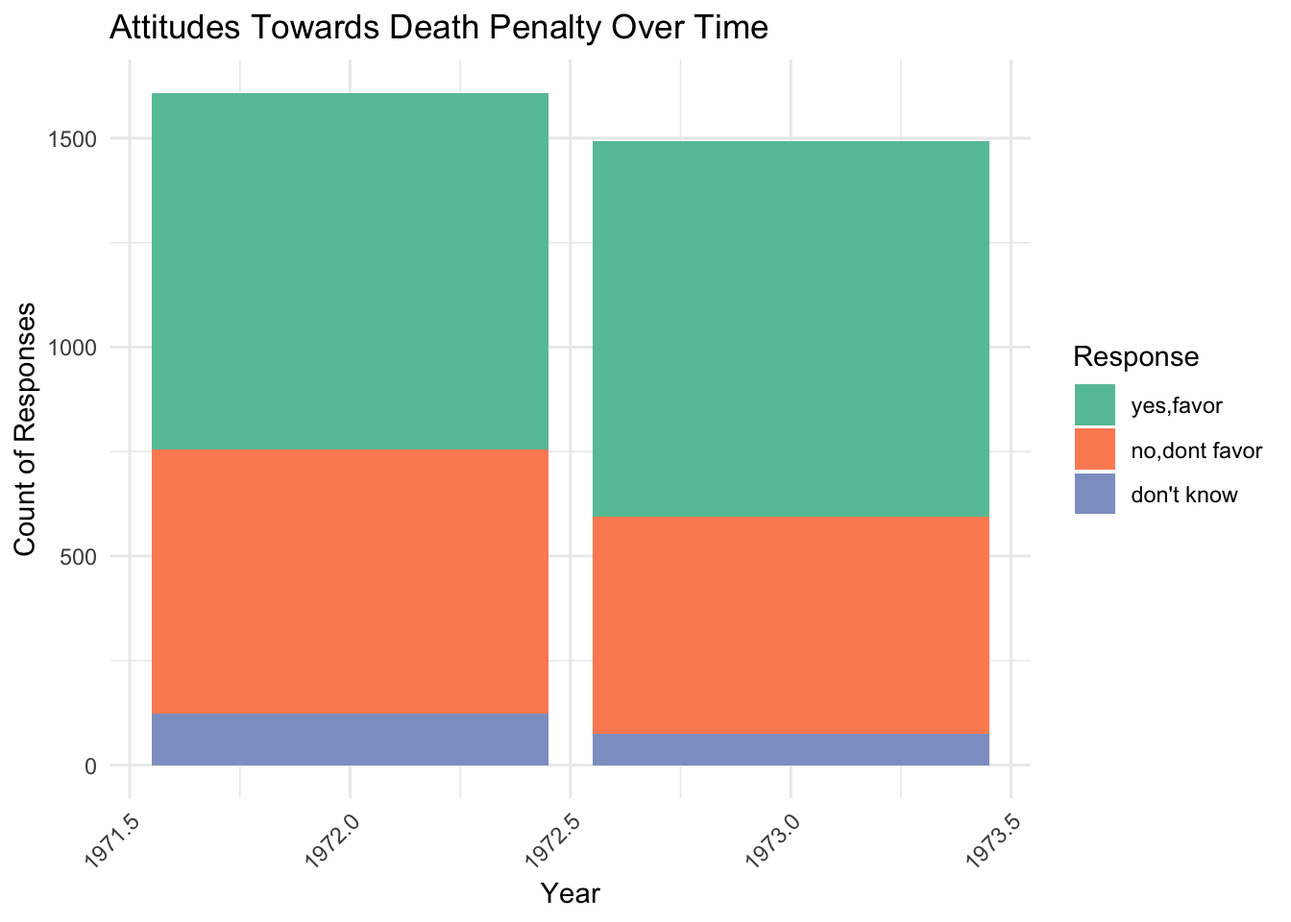
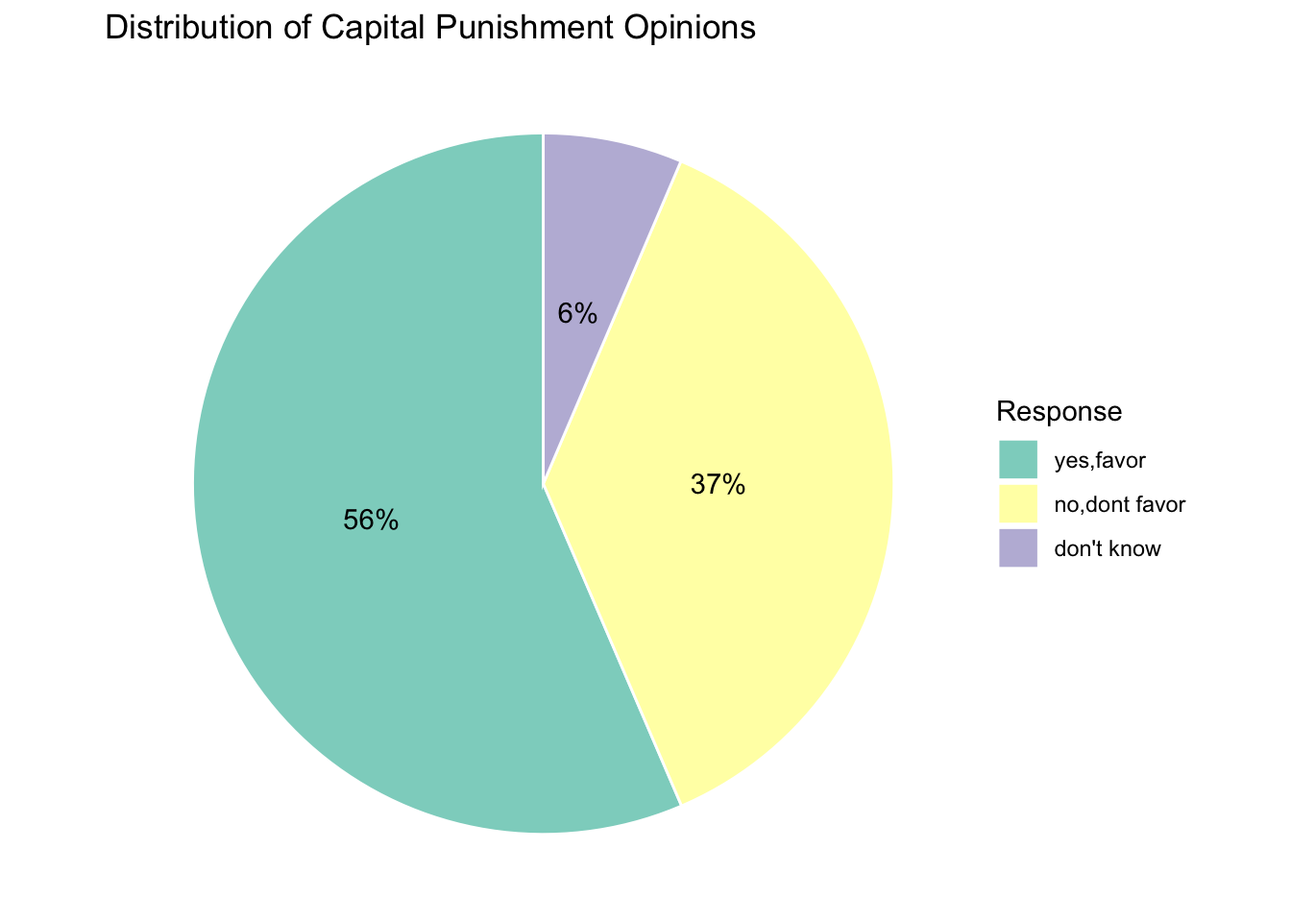
Exploratory visuals - minor improvements

diff --git a/docs/results.html b/docs/results.html
@@ -187,8 +187,9 @@ pre > code.sourceCode > span > a:first-child::before { text-decoration: underlin
   <li><a href="#affirmative-action" id="toc-affirmative-action" class="nav-link" data-scroll-target="#affirmative-action"><span class="header-section-number">3.2</span> Affirmative Action</a></li>
   <li><a href="#capital-punishment" id="toc-capital-punishment" class="nav-link" data-scroll-target="#capital-punishment"><span class="header-section-number">3.3</span> Capital Punishment</a>
   <ul class="collapse">
-  <li><a href="#which-groups-of-people-e.g.-gender-age-race-agree-the-most-on-capital-punishment-which-differ-the-most-what-are-possible-explanations-for-this" id="toc-which-groups-of-people-e.g.-gender-age-race-agree-the-most-on-capital-punishment-which-differ-the-most-what-are-possible-explanations-for-this" class="nav-link" data-scroll-target="#which-groups-of-people-e.g.-gender-age-race-agree-the-most-on-capital-punishment-which-differ-the-most-what-are-possible-explanations-for-this"><span class="header-section-number">3.3.1</span> Which groups of people (e.g.&nbsp;gender, age, race) agree the most on capital punishment? Which differ the most? What are possible explanations for this?</a></li>
-  <li><a href="#have-peoples-opinions-on-capital-punishment-changed-over-the-past-50-years-how-so" id="toc-have-peoples-opinions-on-capital-punishment-changed-over-the-past-50-years-how-so" class="nav-link" data-scroll-target="#have-peoples-opinions-on-capital-punishment-changed-over-the-past-50-years-how-so"><span class="header-section-number">3.3.2</span> Have peoples’ opinions on capital punishment changed over the past 50 years? How so?</a></li>
+  <li><a href="#exploratory" id="toc-exploratory" class="nav-link" data-scroll-target="#exploratory"><span class="header-section-number">3.3.1</span> Exploratory</a></li>
+  <li><a href="#which-groups-of-people-e.g.-gender-age-race-agree-the-most-on-capital-punishment-which-differ-the-most-what-are-possible-explanations-for-this" id="toc-which-groups-of-people-e.g.-gender-age-race-agree-the-most-on-capital-punishment-which-differ-the-most-what-are-possible-explanations-for-this" class="nav-link" data-scroll-target="#which-groups-of-people-e.g.-gender-age-race-agree-the-most-on-capital-punishment-which-differ-the-most-what-are-possible-explanations-for-this"><span class="header-section-number">3.3.2</span> Which groups of people (e.g.&nbsp;gender, age, race) agree the most on capital punishment? Which differ the most? What are possible explanations for this?</a></li>
+  <li><a href="#have-peoples-opinions-on-capital-punishment-changed-over-the-past-50-years-how-so" id="toc-have-peoples-opinions-on-capital-punishment-changed-over-the-past-50-years-how-so" class="nav-link" data-scroll-target="#have-peoples-opinions-on-capital-punishment-changed-over-the-past-50-years-how-so"><span class="header-section-number">3.3.3</span> Have peoples’ opinions on capital punishment changed over the past 50 years? How so?</a></li>
   </ul></li>
   </ul>
 <div class="toc-actions"><ul><li><a href="https://github.com/jdonohue44/GeneralSocialSurveyVisualizations/edit/main/results.qmd" class="toc-action"><i class="bi bi-github"></i>Edit this page</a></li><li><a href="https://github.com/jdonohue44/GeneralSocialSurveyVisualizations/issues/new" class="toc-action"><i class="bi empty"></i>Report an issue</a></li></ul></div></nav>
@@ -223,42 +224,38 @@ pre > code.sourceCode > span > a:first-child::before { text-decoration: underlin
 </section>
 <section id="capital-punishment" class="level2" data-number="3.3">
 <h2 data-number="3.3" class="anchored" data-anchor-id="capital-punishment"><span class="header-section-number">3.3</span> Capital Punishment</h2>
-<section id="which-groups-of-people-e.g.-gender-age-race-agree-the-most-on-capital-punishment-which-differ-the-most-what-are-possible-explanations-for-this" class="level3" data-number="3.3.1">
-<h3 data-number="3.3.1" class="anchored" data-anchor-id="which-groups-of-people-e.g.-gender-age-race-agree-the-most-on-capital-punishment-which-differ-the-most-what-are-possible-explanations-for-this"><span class="header-section-number">3.3.1</span> Which groups of people (e.g.&nbsp;gender, age, race) agree the most on capital punishment? Which differ the most? What are possible explanations for this?</h3>
+<section id="exploratory" class="level3" data-number="3.3.1">
+<h3 data-number="3.3.1" class="anchored" data-anchor-id="exploratory"><span class="header-section-number">3.3.1</span> Exploratory</h3>
 <div class="cell">
 <details class="code-fold">
 <summary>Code</summary>
 <div class="sourceCode cell-code" id="cb1"><pre class="sourceCode r code-with-copy"><code class="sourceCode r"><span id="cb1-1"><a href="#cb1-1" aria-hidden="true" tabindex="-1"></a><span class="co"># install.packages('gssr', repos = c('https://kjhealy.r-universe.dev', 'https://cloud.r-project.org'))</span></span>
 <span id="cb1-2"><a href="#cb1-2" aria-hidden="true" tabindex="-1"></a><span class="co"># install.packages('gssrdoc', repos = c('https://kjhealy.r-universe.dev', 'https://cloud.r-project.org'))</span></span>
-<span id="cb1-3"><a href="#cb1-3" aria-hidden="true" tabindex="-1"></a></span>
-<span id="cb1-4"><a href="#cb1-4" aria-hidden="true" tabindex="-1"></a><span class="fu">library</span>(gssr)</span>
-<span id="cb1-5"><a href="#cb1-5" aria-hidden="true" tabindex="-1"></a><span class="fu">library</span>(dplyr)</span>
-<span id="cb1-6"><a href="#cb1-6" aria-hidden="true" tabindex="-1"></a><span class="fu">library</span>(ggplot2)</span>
-<span id="cb1-7"><a href="#cb1-7" aria-hidden="true" tabindex="-1"></a><span class="fu">data</span>(gss_all)</span>
-<span id="cb1-8"><a href="#cb1-8" aria-hidden="true" tabindex="-1"></a></span>
-<span id="cb1-9"><a href="#cb1-9" aria-hidden="true" tabindex="-1"></a><span class="co"># Get Cappun Data</span></span>
-<span id="cb1-10"><a href="#cb1-10" aria-hidden="true" tabindex="-1"></a><span class="co"># cappun: Do you favor or oppose the death penalty for persons convicted of murder?</span></span>
-<span id="cb1-11"><a href="#cb1-11" aria-hidden="true" tabindex="-1"></a><span class="co"># 1 favor</span></span>
-<span id="cb1-12"><a href="#cb1-12" aria-hidden="true" tabindex="-1"></a><span class="co"># 2 oppose</span></span>
-<span id="cb1-13"><a href="#cb1-13" aria-hidden="true" tabindex="-1"></a><span class="co"># NA(d) i dont know</span></span>
-<span id="cb1-14"><a href="#cb1-14" aria-hidden="true" tabindex="-1"></a>cappun_data <span class="ot">&lt;-</span> gss_all <span class="sc">|&gt;</span> </span>
-<span id="cb1-15"><a href="#cb1-15" aria-hidden="true" tabindex="-1"></a>  <span class="fu">select</span>(year, cappun) <span class="sc">|&gt;</span> </span>
-<span id="cb1-16"><a href="#cb1-16" aria-hidden="true" tabindex="-1"></a>  <span class="fu">filter</span>(cappun<span class="sc">==</span><span class="dv">1</span> <span class="sc">|</span> cappun<span class="sc">==</span><span class="dv">2</span>)</span>
-<span id="cb1-17"><a href="#cb1-17" aria-hidden="true" tabindex="-1"></a></span>
-<span id="cb1-18"><a href="#cb1-18" aria-hidden="true" tabindex="-1"></a><span class="co"># Convert to factor with meaningful labels</span></span>
-<span id="cb1-19"><a href="#cb1-19" aria-hidden="true" tabindex="-1"></a>cappun_data<span class="sc">$</span>cappun <span class="ot">&lt;-</span> <span class="fu">factor</span>(cappun_data<span class="sc">$</span>cappun, </span>
-<span id="cb1-20"><a href="#cb1-20" aria-hidden="true" tabindex="-1"></a>                             <span class="at">levels =</span> <span class="fu">c</span>(<span class="st">"1"</span>, <span class="st">"2"</span>),</span>
-<span id="cb1-21"><a href="#cb1-21" aria-hidden="true" tabindex="-1"></a>                             <span class="at">labels =</span> <span class="fu">c</span>(<span class="st">"Favor"</span>, <span class="st">"Oppose"</span>))</span>
-<span id="cb1-22"><a href="#cb1-22" aria-hidden="true" tabindex="-1"></a></span>
-<span id="cb1-23"><a href="#cb1-23" aria-hidden="true" tabindex="-1"></a><span class="co"># Plot 1</span></span>
-<span id="cb1-24"><a href="#cb1-24" aria-hidden="true" tabindex="-1"></a><span class="fu">ggplot</span>(cappun_data, <span class="fu">aes</span>(<span class="at">x =</span> year, <span class="at">fill =</span> cappun)) <span class="sc">+</span></span>
-<span id="cb1-25"><a href="#cb1-25" aria-hidden="true" tabindex="-1"></a>  <span class="fu">geom_bar</span>(<span class="at">position =</span> <span class="st">"stack"</span>) <span class="sc">+</span></span>
-<span id="cb1-26"><a href="#cb1-26" aria-hidden="true" tabindex="-1"></a>  <span class="fu">labs</span>(<span class="at">title =</span> <span class="st">"Attitudes Towards Death Penalty Over Time"</span>,</span>
-<span id="cb1-27"><a href="#cb1-27" aria-hidden="true" tabindex="-1"></a>       <span class="at">x =</span> <span class="st">"Year"</span>,</span>
-<span id="cb1-28"><a href="#cb1-28" aria-hidden="true" tabindex="-1"></a>       <span class="at">y =</span> <span class="st">"Count of Responses"</span>,</span>
-<span id="cb1-29"><a href="#cb1-29" aria-hidden="true" tabindex="-1"></a>       <span class="at">fill =</span> <span class="st">"Response"</span>) <span class="sc">+</span></span>
-<span id="cb1-30"><a href="#cb1-30" aria-hidden="true" tabindex="-1"></a>  <span class="fu">theme_minimal</span>() <span class="sc">+</span></span>
-<span id="cb1-31"><a href="#cb1-31" aria-hidden="true" tabindex="-1"></a>  <span class="fu">scale_fill_brewer</span>(<span class="at">palette =</span> <span class="st">"Set2"</span>)</span></code><button title="Copy to Clipboard" class="code-copy-button"><i class="bi"></i></button></pre></div>
+<span id="cb1-3"><a href="#cb1-3" aria-hidden="true" tabindex="-1"></a><span class="fu">library</span>(gssr)</span>
+<span id="cb1-4"><a href="#cb1-4" aria-hidden="true" tabindex="-1"></a><span class="fu">library</span>(dplyr)</span>
+<span id="cb1-5"><a href="#cb1-5" aria-hidden="true" tabindex="-1"></a><span class="fu">library</span>(ggplot2)</span>
+<span id="cb1-6"><a href="#cb1-6" aria-hidden="true" tabindex="-1"></a><span class="fu">data</span>(gss_all)</span>
+<span id="cb1-7"><a href="#cb1-7" aria-hidden="true" tabindex="-1"></a></span>
+<span id="cb1-8"><a href="#cb1-8" aria-hidden="true" tabindex="-1"></a><span class="co"># Get Cappun Data</span></span>
+<span id="cb1-9"><a href="#cb1-9" aria-hidden="true" tabindex="-1"></a><span class="co"># cappun: Do you favor or oppose the death penalty for persons convicted of murder?</span></span>
+<span id="cb1-10"><a href="#cb1-10" aria-hidden="true" tabindex="-1"></a>cappun_data <span class="ot">&lt;-</span> gss_all <span class="sc">|&gt;</span> </span>
+<span id="cb1-11"><a href="#cb1-11" aria-hidden="true" tabindex="-1"></a>  <span class="fu">select</span>(year, cappun) <span class="sc">|&gt;</span> </span>
+<span id="cb1-12"><a href="#cb1-12" aria-hidden="true" tabindex="-1"></a>  <span class="fu">filter</span>(cappun<span class="sc">==</span><span class="dv">1</span> <span class="sc">|</span> cappun<span class="sc">==</span><span class="dv">2</span>)</span>
+<span id="cb1-13"><a href="#cb1-13" aria-hidden="true" tabindex="-1"></a></span>
+<span id="cb1-14"><a href="#cb1-14" aria-hidden="true" tabindex="-1"></a><span class="co"># Convert to factor with meaningful labels</span></span>
+<span id="cb1-15"><a href="#cb1-15" aria-hidden="true" tabindex="-1"></a>cappun_data<span class="sc">$</span>cappun <span class="ot">&lt;-</span> <span class="fu">factor</span>(cappun_data<span class="sc">$</span>cappun, </span>
+<span id="cb1-16"><a href="#cb1-16" aria-hidden="true" tabindex="-1"></a>                             <span class="at">levels =</span> <span class="fu">c</span>(<span class="st">"1"</span>, <span class="st">"2"</span>),</span>
+<span id="cb1-17"><a href="#cb1-17" aria-hidden="true" tabindex="-1"></a>                             <span class="at">labels =</span> <span class="fu">c</span>(<span class="st">"Favor"</span>, <span class="st">"Oppose"</span>))</span>
+<span id="cb1-18"><a href="#cb1-18" aria-hidden="true" tabindex="-1"></a></span>
+<span id="cb1-19"><a href="#cb1-19" aria-hidden="true" tabindex="-1"></a><span class="co"># Plot 1</span></span>
+<span id="cb1-20"><a href="#cb1-20" aria-hidden="true" tabindex="-1"></a><span class="fu">ggplot</span>(cappun_data, <span class="fu">aes</span>(<span class="at">x =</span> year, <span class="at">fill =</span> cappun)) <span class="sc">+</span></span>
+<span id="cb1-21"><a href="#cb1-21" aria-hidden="true" tabindex="-1"></a>  <span class="fu">geom_bar</span>(<span class="at">position =</span> <span class="st">"stack"</span>) <span class="sc">+</span></span>
+<span id="cb1-22"><a href="#cb1-22" aria-hidden="true" tabindex="-1"></a>  <span class="fu">labs</span>(<span class="at">title =</span> <span class="st">"Attitudes Towards Death Penalty Over Time"</span>,</span>
+<span id="cb1-23"><a href="#cb1-23" aria-hidden="true" tabindex="-1"></a>       <span class="at">x =</span> <span class="st">"Year"</span>,</span>
+<span id="cb1-24"><a href="#cb1-24" aria-hidden="true" tabindex="-1"></a>       <span class="at">y =</span> <span class="st">"Count of Responses"</span>,</span>
+<span id="cb1-25"><a href="#cb1-25" aria-hidden="true" tabindex="-1"></a>       <span class="at">fill =</span> <span class="st">"Response"</span>) <span class="sc">+</span></span>
+<span id="cb1-26"><a href="#cb1-26" aria-hidden="true" tabindex="-1"></a>  <span class="fu">theme_minimal</span>() <span class="sc">+</span></span>
+<span id="cb1-27"><a href="#cb1-27" aria-hidden="true" tabindex="-1"></a>  <span class="fu">scale_fill_brewer</span>(<span class="at">palette =</span> <span class="st">"Set2"</span>)</span></code><button title="Copy to Clipboard" class="code-copy-button"><i class="bi"></i></button></pre></div>
 </details>
 <div class="cell-output-display">
 <div>
@@ -299,33 +296,36 @@ pre > code.sourceCode > span > a:first-child::before { text-decoration: underlin
 <details class="code-fold">
 <summary>Code</summary>
 <div class="sourceCode cell-code" id="cb3"><pre class="sourceCode r code-with-copy"><code class="sourceCode r"><span id="cb3-1"><a href="#cb3-1" aria-hidden="true" tabindex="-1"></a><span class="fu">library</span>(forcats)</span>
-<span id="cb3-2"><a href="#cb3-2" aria-hidden="true" tabindex="-1"></a><span class="co"># Get Cappun2 Data</span></span>
-<span id="cb3-3"><a href="#cb3-3" aria-hidden="true" tabindex="-1"></a><span class="co"># cappun2: Are you in favor of the death penalty for persons convicted of murder?</span></span>
-<span id="cb3-4"><a href="#cb3-4" aria-hidden="true" tabindex="-1"></a><span class="co"># 1 yes,favor</span></span>
-<span id="cb3-5"><a href="#cb3-5" aria-hidden="true" tabindex="-1"></a><span class="co"># 2 no,dont favor</span></span>
-<span id="cb3-6"><a href="#cb3-6" aria-hidden="true" tabindex="-1"></a><span class="co"># NA(d) don't know</span></span>
+<span id="cb3-2"><a href="#cb3-2" aria-hidden="true" tabindex="-1"></a><span class="fu">library</span>(ggplot2)</span>
+<span id="cb3-3"><a href="#cb3-3" aria-hidden="true" tabindex="-1"></a><span class="fu">library</span>(dplyr)</span>
+<span id="cb3-4"><a href="#cb3-4" aria-hidden="true" tabindex="-1"></a></span>
+<span id="cb3-5"><a href="#cb3-5" aria-hidden="true" tabindex="-1"></a><span class="co"># Get Cappun2 Data</span></span>
+<span id="cb3-6"><a href="#cb3-6" aria-hidden="true" tabindex="-1"></a><span class="co"># cappun2: Are you in favor of the death penalty for persons convicted of murder?</span></span>
 <span id="cb3-7"><a href="#cb3-7" aria-hidden="true" tabindex="-1"></a></span>
-<span id="cb3-8"><a href="#cb3-8" aria-hidden="true" tabindex="-1"></a><span class="co"># gss_all |&gt; select(year, cappun2) |&gt; group_by(year, cappun2) |&gt; summarize(n())</span></span>
-<span id="cb3-9"><a href="#cb3-9" aria-hidden="true" tabindex="-1"></a></span>
-<span id="cb3-10"><a href="#cb3-10" aria-hidden="true" tabindex="-1"></a><span class="co"># Select the relevant data</span></span>
-<span id="cb3-11"><a href="#cb3-11" aria-hidden="true" tabindex="-1"></a>cappun2_data <span class="ot">&lt;-</span> gss_all <span class="sc">|&gt;</span> </span>
-<span id="cb3-12"><a href="#cb3-12" aria-hidden="true" tabindex="-1"></a>  <span class="fu">select</span>(year, cappun2)</span>
-<span id="cb3-13"><a href="#cb3-13" aria-hidden="true" tabindex="-1"></a></span>
-<span id="cb3-14"><a href="#cb3-14" aria-hidden="true" tabindex="-1"></a><span class="co"># Convert cappun2 to a factor, which will preserve all categories including "don't know"</span></span>
-<span id="cb3-15"><a href="#cb3-15" aria-hidden="true" tabindex="-1"></a>cappun2_data <span class="ot">&lt;-</span> cappun2_data <span class="sc">|&gt;</span></span>
-<span id="cb3-16"><a href="#cb3-16" aria-hidden="true" tabindex="-1"></a>  <span class="fu">mutate</span>(<span class="at">cappun2_factor =</span> <span class="fu">as_factor</span>(cappun2)) <span class="sc">|&gt;</span></span>
-<span id="cb3-17"><a href="#cb3-17" aria-hidden="true" tabindex="-1"></a>  <span class="fu">filter</span>(cappun2_factor <span class="sc">!=</span> <span class="st">"iap"</span> <span class="sc">&amp;</span> cappun2_factor <span class="sc">!=</span> <span class="st">"no answer"</span>)</span>
-<span id="cb3-18"><a href="#cb3-18" aria-hidden="true" tabindex="-1"></a></span>
-<span id="cb3-19"><a href="#cb3-19" aria-hidden="true" tabindex="-1"></a><span class="co"># Create a simple bar chart</span></span>
-<span id="cb3-20"><a href="#cb3-20" aria-hidden="true" tabindex="-1"></a><span class="fu">ggplot</span>(cappun2_data, <span class="fu">aes</span>(<span class="at">x =</span> year, <span class="at">fill =</span> cappun2_factor)) <span class="sc">+</span></span>
-<span id="cb3-21"><a href="#cb3-21" aria-hidden="true" tabindex="-1"></a>  <span class="fu">geom_bar</span>(<span class="at">position =</span> <span class="st">"stack"</span>) <span class="sc">+</span></span>
-<span id="cb3-22"><a href="#cb3-22" aria-hidden="true" tabindex="-1"></a>  <span class="fu">labs</span>(<span class="at">title =</span> <span class="st">"Attitudes Towards Death Penalty Over Time"</span>,</span>
-<span id="cb3-23"><a href="#cb3-23" aria-hidden="true" tabindex="-1"></a>       <span class="at">x =</span> <span class="st">"Year"</span>,</span>
-<span id="cb3-24"><a href="#cb3-24" aria-hidden="true" tabindex="-1"></a>       <span class="at">y =</span> <span class="st">"Count of Responses"</span>,</span>
-<span id="cb3-25"><a href="#cb3-25" aria-hidden="true" tabindex="-1"></a>       <span class="at">fill =</span> <span class="st">"Response"</span>) <span class="sc">+</span></span>
-<span id="cb3-26"><a href="#cb3-26" aria-hidden="true" tabindex="-1"></a>  <span class="fu">theme_minimal</span>() <span class="sc">+</span></span>
-<span id="cb3-27"><a href="#cb3-27" aria-hidden="true" tabindex="-1"></a>  <span class="fu">scale_fill_brewer</span>(<span class="at">palette =</span> <span class="st">"Set2"</span>) <span class="sc">+</span></span>
-<span id="cb3-28"><a href="#cb3-28" aria-hidden="true" tabindex="-1"></a>  <span class="fu">theme</span>(<span class="at">axis.text.x =</span> <span class="fu">element_text</span>(<span class="at">angle =</span> <span class="dv">45</span>, <span class="at">hjust =</span> <span class="dv">1</span>))  <span class="co"># Rotate x-axis labels for better readability</span></span></code><button title="Copy to Clipboard" class="code-copy-button"><i class="bi"></i></button></pre></div>
+<span id="cb3-8"><a href="#cb3-8" aria-hidden="true" tabindex="-1"></a><span class="co"># Select the relevant data</span></span>
+<span id="cb3-9"><a href="#cb3-9" aria-hidden="true" tabindex="-1"></a>cappun2_data <span class="ot">&lt;-</span> gss_all <span class="sc">|&gt;</span> </span>
+<span id="cb3-10"><a href="#cb3-10" aria-hidden="true" tabindex="-1"></a>  <span class="fu">select</span>(year, cappun2)</span>
+<span id="cb3-11"><a href="#cb3-11" aria-hidden="true" tabindex="-1"></a></span>
+<span id="cb3-12"><a href="#cb3-12" aria-hidden="true" tabindex="-1"></a><span class="co"># Convert cappun2 to a factor, which will preserve all categories including "don't know"</span></span>
+<span id="cb3-13"><a href="#cb3-13" aria-hidden="true" tabindex="-1"></a>cappun2_data <span class="ot">&lt;-</span> cappun2_data <span class="sc">|&gt;</span></span>
+<span id="cb3-14"><a href="#cb3-14" aria-hidden="true" tabindex="-1"></a>  <span class="fu">mutate</span>(<span class="at">cappun2_factor =</span> <span class="fu">as_factor</span>(cappun2)) <span class="sc">|&gt;</span></span>
+<span id="cb3-15"><a href="#cb3-15" aria-hidden="true" tabindex="-1"></a>  <span class="fu">filter</span>(cappun2_factor <span class="sc">!=</span> <span class="st">"iap"</span> <span class="sc">&amp;</span> cappun2_factor <span class="sc">!=</span> <span class="st">"no answer"</span>)</span>
+<span id="cb3-16"><a href="#cb3-16" aria-hidden="true" tabindex="-1"></a></span>
+<span id="cb3-17"><a href="#cb3-17" aria-hidden="true" tabindex="-1"></a><span class="co"># Pie Chart to show "i don't know" responses (1972-1973)</span></span>
+<span id="cb3-18"><a href="#cb3-18" aria-hidden="true" tabindex="-1"></a><span class="fu">ggplot</span>(cappun2_data, <span class="fu">aes</span>(<span class="at">x =</span> <span class="st">""</span>, <span class="at">fill =</span> cappun2_factor)) <span class="sc">+</span></span>
+<span id="cb3-19"><a href="#cb3-19" aria-hidden="true" tabindex="-1"></a>  <span class="fu">geom_bar</span>(<span class="at">width =</span> <span class="dv">1</span>, <span class="at">color =</span> <span class="st">"white"</span>) <span class="sc">+</span></span>
+<span id="cb3-20"><a href="#cb3-20" aria-hidden="true" tabindex="-1"></a>  <span class="fu">coord_polar</span>(<span class="st">"y"</span>, <span class="at">start =</span> <span class="dv">0</span>) <span class="sc">+</span></span>
+<span id="cb3-21"><a href="#cb3-21" aria-hidden="true" tabindex="-1"></a>  <span class="fu">theme_void</span>() <span class="sc">+</span></span>
+<span id="cb3-22"><a href="#cb3-22" aria-hidden="true" tabindex="-1"></a>  <span class="fu">labs</span>(</span>
+<span id="cb3-23"><a href="#cb3-23" aria-hidden="true" tabindex="-1"></a>    <span class="at">title =</span> <span class="st">"Distribution of Capital Punishment Opinions"</span>,</span>
+<span id="cb3-24"><a href="#cb3-24" aria-hidden="true" tabindex="-1"></a>    <span class="at">fill =</span> <span class="st">"Response"</span></span>
+<span id="cb3-25"><a href="#cb3-25" aria-hidden="true" tabindex="-1"></a>  ) <span class="sc">+</span></span>
+<span id="cb3-26"><a href="#cb3-26" aria-hidden="true" tabindex="-1"></a>  <span class="fu">geom_text</span>(</span>
+<span id="cb3-27"><a href="#cb3-27" aria-hidden="true" tabindex="-1"></a>    <span class="at">stat =</span> <span class="st">"count"</span>, </span>
+<span id="cb3-28"><a href="#cb3-28" aria-hidden="true" tabindex="-1"></a>    <span class="fu">aes</span>(<span class="at">label =</span> scales<span class="sc">::</span><span class="fu">percent</span>(..count..<span class="sc">/</span><span class="fu">sum</span>(..count..))), </span>
+<span id="cb3-29"><a href="#cb3-29" aria-hidden="true" tabindex="-1"></a>    <span class="at">position =</span> <span class="fu">position_stack</span>(<span class="at">vjust =</span> <span class="fl">0.5</span>)</span>
+<span id="cb3-30"><a href="#cb3-30" aria-hidden="true" tabindex="-1"></a>  ) <span class="sc">+</span></span>
+<span id="cb3-31"><a href="#cb3-31" aria-hidden="true" tabindex="-1"></a>  <span class="fu">scale_fill_brewer</span>(<span class="at">palette =</span> <span class="st">"Set3"</span>)</span></code><button title="Copy to Clipboard" class="code-copy-button"><i class="bi"></i></button></pre></div>
 </details>
 <div class="cell-output-display">
 <div>
@@ -336,8 +336,139 @@ pre > code.sourceCode > span > a:first-child::before { text-decoration: underlin
 </div>
 </div>
 </section>
-<section id="have-peoples-opinions-on-capital-punishment-changed-over-the-past-50-years-how-so" class="level3" data-number="3.3.2">
-<h3 data-number="3.3.2" class="anchored" data-anchor-id="have-peoples-opinions-on-capital-punishment-changed-over-the-past-50-years-how-so"><span class="header-section-number">3.3.2</span> Have peoples’ opinions on capital punishment changed over the past 50 years? How so?</h3>
+<section id="which-groups-of-people-e.g.-gender-age-race-agree-the-most-on-capital-punishment-which-differ-the-most-what-are-possible-explanations-for-this" class="level3" data-number="3.3.2">
+<h3 data-number="3.3.2" class="anchored" data-anchor-id="which-groups-of-people-e.g.-gender-age-race-agree-the-most-on-capital-punishment-which-differ-the-most-what-are-possible-explanations-for-this"><span class="header-section-number">3.3.2</span> Which groups of people (e.g.&nbsp;gender, age, race) agree the most on capital punishment? Which differ the most? What are possible explanations for this?</h3>
+<div class="cell">
+<details class="code-fold">
+<summary>Code</summary>
+<div class="sourceCode cell-code" id="cb4"><pre class="sourceCode r code-with-copy"><code class="sourceCode r"><span id="cb4-1"><a href="#cb4-1" aria-hidden="true" tabindex="-1"></a><span class="fu">library</span>(dplyr)</span>
+<span id="cb4-2"><a href="#cb4-2" aria-hidden="true" tabindex="-1"></a><span class="co"># Select the relevant data</span></span>
+<span id="cb4-3"><a href="#cb4-3" aria-hidden="true" tabindex="-1"></a>cappun_data <span class="ot">&lt;-</span> gss_all <span class="sc">|&gt;</span> </span>
+<span id="cb4-4"><a href="#cb4-4" aria-hidden="true" tabindex="-1"></a>  <span class="fu">select</span>(year, race, cappun) <span class="sc">|&gt;</span></span>
+<span id="cb4-5"><a href="#cb4-5" aria-hidden="true" tabindex="-1"></a>  <span class="fu">filter</span>(cappun<span class="sc">==</span><span class="dv">1</span> <span class="sc">|</span> cappun<span class="sc">==</span><span class="dv">2</span>)</span>
+<span id="cb4-6"><a href="#cb4-6" aria-hidden="true" tabindex="-1"></a></span>
+<span id="cb4-7"><a href="#cb4-7" aria-hidden="true" tabindex="-1"></a><span class="co"># Convert to factor with meaningful labels</span></span>
+<span id="cb4-8"><a href="#cb4-8" aria-hidden="true" tabindex="-1"></a>cappun_data<span class="sc">$</span>cappun <span class="ot">&lt;-</span> <span class="fu">factor</span>(cappun_data<span class="sc">$</span>cappun, </span>
+<span id="cb4-9"><a href="#cb4-9" aria-hidden="true" tabindex="-1"></a>                             <span class="at">levels =</span> <span class="fu">c</span>(<span class="st">"1"</span>, <span class="st">"2"</span>),</span>
+<span id="cb4-10"><a href="#cb4-10" aria-hidden="true" tabindex="-1"></a>                             <span class="at">labels =</span> <span class="fu">c</span>(<span class="st">"Favor"</span>, <span class="st">"Oppose"</span>))</span>
+<span id="cb4-11"><a href="#cb4-11" aria-hidden="true" tabindex="-1"></a></span>
+<span id="cb4-12"><a href="#cb4-12" aria-hidden="true" tabindex="-1"></a><span class="fu">ggplot</span>(cappun_data, <span class="fu">aes</span>(<span class="at">x =</span> <span class="fu">as.factor</span>(year), <span class="at">fill =</span> cappun)) <span class="sc">+</span></span>
+<span id="cb4-13"><a href="#cb4-13" aria-hidden="true" tabindex="-1"></a>  <span class="fu">geom_bar</span>(<span class="at">position =</span> <span class="st">"fill"</span>) <span class="sc">+</span></span>
+<span id="cb4-14"><a href="#cb4-14" aria-hidden="true" tabindex="-1"></a>  <span class="fu">facet_wrap</span>(<span class="sc">~</span> race, <span class="at">scales =</span> <span class="st">"free_x"</span>, </span>
+<span id="cb4-15"><a href="#cb4-15" aria-hidden="true" tabindex="-1"></a>             <span class="at">labeller =</span> <span class="fu">labeller</span>(<span class="at">race =</span> <span class="fu">c</span>(<span class="st">"1"</span> <span class="ot">=</span> <span class="st">"White"</span>, <span class="st">"2"</span> <span class="ot">=</span> <span class="st">"Black"</span>, <span class="st">"3"</span> <span class="ot">=</span> <span class="st">"Other"</span>))) <span class="sc">+</span></span>
+<span id="cb4-16"><a href="#cb4-16" aria-hidden="true" tabindex="-1"></a>  <span class="fu">labs</span>(</span>
+<span id="cb4-17"><a href="#cb4-17" aria-hidden="true" tabindex="-1"></a>    <span class="at">title =</span> <span class="st">"Capital Punishment Opinions by Year and Race"</span>,</span>
+<span id="cb4-18"><a href="#cb4-18" aria-hidden="true" tabindex="-1"></a>    <span class="at">x =</span> <span class="st">"Year"</span>,</span>
+<span id="cb4-19"><a href="#cb4-19" aria-hidden="true" tabindex="-1"></a>    <span class="at">y =</span> <span class="st">"Proportion"</span>,</span>
+<span id="cb4-20"><a href="#cb4-20" aria-hidden="true" tabindex="-1"></a>    <span class="at">fill =</span> <span class="st">"Opinion"</span></span>
+<span id="cb4-21"><a href="#cb4-21" aria-hidden="true" tabindex="-1"></a>  ) <span class="sc">+</span></span>
+<span id="cb4-22"><a href="#cb4-22" aria-hidden="true" tabindex="-1"></a>  <span class="fu">theme_minimal</span>() <span class="sc">+</span></span>
+<span id="cb4-23"><a href="#cb4-23" aria-hidden="true" tabindex="-1"></a>  <span class="fu">theme</span>(</span>
+<span id="cb4-24"><a href="#cb4-24" aria-hidden="true" tabindex="-1"></a>    <span class="at">axis.text.x =</span> <span class="fu">element_text</span>(<span class="at">angle =</span> <span class="dv">45</span>, <span class="at">hjust =</span> <span class="dv">1</span>),</span>
+<span id="cb4-25"><a href="#cb4-25" aria-hidden="true" tabindex="-1"></a>    <span class="at">strip.background =</span> <span class="fu">element_rect</span>(<span class="at">fill =</span> <span class="st">"lightgray"</span>),</span>
+<span id="cb4-26"><a href="#cb4-26" aria-hidden="true" tabindex="-1"></a>    <span class="at">strip.text =</span> <span class="fu">element_text</span>(<span class="at">face =</span> <span class="st">"bold"</span>)</span>
+<span id="cb4-27"><a href="#cb4-27" aria-hidden="true" tabindex="-1"></a>  )</span></code><button title="Copy to Clipboard" class="code-copy-button"><i class="bi"></i></button></pre></div>
+</details>
+<div class="cell-output-display">
+<div>
+<figure class="figure">
+<p><img src="results_files/figure-html/unnamed-chunk-3-1.png" class="img-fluid figure-img" width="672"></p>
+</figure>
+</div>
+</div>
+<details class="code-fold">
+<summary>Code</summary>
+<div class="sourceCode cell-code" id="cb5"><pre class="sourceCode r code-with-copy"><code class="sourceCode r"><span id="cb5-1"><a href="#cb5-1" aria-hidden="true" tabindex="-1"></a><span class="co"># Calculate proportions by year and race</span></span>
+<span id="cb5-2"><a href="#cb5-2" aria-hidden="true" tabindex="-1"></a><span class="co"># prop_data &lt;- cappun_data |&gt;</span></span>
+<span id="cb5-3"><a href="#cb5-3" aria-hidden="true" tabindex="-1"></a><span class="co">#   group_by(year, race, cappun) |&gt;</span></span>
+<span id="cb5-4"><a href="#cb5-4" aria-hidden="true" tabindex="-1"></a><span class="co">#   summarise(count = n()) |&gt;</span></span>
+<span id="cb5-5"><a href="#cb5-5" aria-hidden="true" tabindex="-1"></a><span class="co">#   group_by(year, race) |&gt;</span></span>
+<span id="cb5-6"><a href="#cb5-6" aria-hidden="true" tabindex="-1"></a><span class="co">#   mutate(proportion = count / sum(count))</span></span>
+<span id="cb5-7"><a href="#cb5-7" aria-hidden="true" tabindex="-1"></a><span class="co"># </span></span>
+<span id="cb5-8"><a href="#cb5-8" aria-hidden="true" tabindex="-1"></a><span class="co"># ggplot(prop_data, aes(x = year, y = proportion, color = cappun, linetype = as.factor(race))) +</span></span>
+<span id="cb5-9"><a href="#cb5-9" aria-hidden="true" tabindex="-1"></a><span class="co">#   geom_line() +</span></span>
+<span id="cb5-10"><a href="#cb5-10" aria-hidden="true" tabindex="-1"></a><span class="co">#   labs(</span></span>
+<span id="cb5-11"><a href="#cb5-11" aria-hidden="true" tabindex="-1"></a><span class="co">#     title = "Trends in Capital Punishment Opinions",</span></span>
+<span id="cb5-12"><a href="#cb5-12" aria-hidden="true" tabindex="-1"></a><span class="co">#     x = "Year",</span></span>
+<span id="cb5-13"><a href="#cb5-13" aria-hidden="true" tabindex="-1"></a><span class="co">#     y = "Proportion",</span></span>
+<span id="cb5-14"><a href="#cb5-14" aria-hidden="true" tabindex="-1"></a><span class="co">#     color = "Opinion",</span></span>
+<span id="cb5-15"><a href="#cb5-15" aria-hidden="true" tabindex="-1"></a><span class="co">#     linetype = "Race"</span></span>
+<span id="cb5-16"><a href="#cb5-16" aria-hidden="true" tabindex="-1"></a><span class="co">#   ) +</span></span>
+<span id="cb5-17"><a href="#cb5-17" aria-hidden="true" tabindex="-1"></a><span class="co">#   theme_minimal()</span></span></code><button title="Copy to Clipboard" class="code-copy-button"><i class="bi"></i></button></pre></div>
+</details>
+</div>
+<div class="cell">
+<details class="code-fold">
+<summary>Code</summary>
+<div class="sourceCode cell-code" id="cb6"><pre class="sourceCode r code-with-copy"><code class="sourceCode r"><span id="cb6-1"><a href="#cb6-1" aria-hidden="true" tabindex="-1"></a><span class="fu">library</span>(dplyr)</span>
+<span id="cb6-2"><a href="#cb6-2" aria-hidden="true" tabindex="-1"></a><span class="co"># Select the relevant data</span></span>
+<span id="cb6-3"><a href="#cb6-3" aria-hidden="true" tabindex="-1"></a>cappun_data <span class="ot">&lt;-</span> gss_all <span class="sc">|&gt;</span> </span>
+<span id="cb6-4"><a href="#cb6-4" aria-hidden="true" tabindex="-1"></a>  <span class="fu">select</span>(year, age, cappun) <span class="sc">|&gt;</span></span>
+<span id="cb6-5"><a href="#cb6-5" aria-hidden="true" tabindex="-1"></a>  <span class="fu">filter</span>(cappun<span class="sc">==</span><span class="dv">1</span> <span class="sc">|</span> cappun<span class="sc">==</span><span class="dv">2</span>)</span>
+<span id="cb6-6"><a href="#cb6-6" aria-hidden="true" tabindex="-1"></a></span>
+<span id="cb6-7"><a href="#cb6-7" aria-hidden="true" tabindex="-1"></a><span class="co"># Convert to factor with meaningful labels</span></span>
+<span id="cb6-8"><a href="#cb6-8" aria-hidden="true" tabindex="-1"></a>cappun_data<span class="sc">$</span>cappun <span class="ot">&lt;-</span> <span class="fu">factor</span>(cappun_data<span class="sc">$</span>cappun, </span>
+<span id="cb6-9"><a href="#cb6-9" aria-hidden="true" tabindex="-1"></a>                             <span class="at">levels =</span> <span class="fu">c</span>(<span class="st">"1"</span>, <span class="st">"2"</span>),</span>
+<span id="cb6-10"><a href="#cb6-10" aria-hidden="true" tabindex="-1"></a>                             <span class="at">labels =</span> <span class="fu">c</span>(<span class="st">"Favor"</span>, <span class="st">"Oppose"</span>))</span>
+<span id="cb6-11"><a href="#cb6-11" aria-hidden="true" tabindex="-1"></a></span>
+<span id="cb6-12"><a href="#cb6-12" aria-hidden="true" tabindex="-1"></a><span class="fu">ggplot</span>(cappun_data, <span class="fu">aes</span>(<span class="at">x =</span> cappun, <span class="at">y =</span> age, <span class="at">fill =</span> cappun)) <span class="sc">+</span></span>
+<span id="cb6-13"><a href="#cb6-13" aria-hidden="true" tabindex="-1"></a>  <span class="fu">geom_boxplot</span>() <span class="sc">+</span></span>
+<span id="cb6-14"><a href="#cb6-14" aria-hidden="true" tabindex="-1"></a>  <span class="fu">labs</span>(</span>
+<span id="cb6-15"><a href="#cb6-15" aria-hidden="true" tabindex="-1"></a>    <span class="at">title =</span> <span class="st">"Age Distribution by Capital Punishment Opinion"</span>,</span>
+<span id="cb6-16"><a href="#cb6-16" aria-hidden="true" tabindex="-1"></a>    <span class="at">x =</span> <span class="st">"Opinion"</span>,</span>
+<span id="cb6-17"><a href="#cb6-17" aria-hidden="true" tabindex="-1"></a>    <span class="at">y =</span> <span class="st">"Age"</span></span>
+<span id="cb6-18"><a href="#cb6-18" aria-hidden="true" tabindex="-1"></a>  ) <span class="sc">+</span></span>
+<span id="cb6-19"><a href="#cb6-19" aria-hidden="true" tabindex="-1"></a>  <span class="fu">theme_minimal</span>()</span></code><button title="Copy to Clipboard" class="code-copy-button"><i class="bi"></i></button></pre></div>
+</details>
+<div class="cell-output-display">
+<div>
+<figure class="figure">
+<p><img src="results_files/figure-html/unnamed-chunk-4-1.png" class="img-fluid figure-img" width="672"></p>
+</figure>
+</div>
+</div>
+<details class="code-fold">
+<summary>Code</summary>
+<div class="sourceCode cell-code" id="cb7"><pre class="sourceCode r code-with-copy"><code class="sourceCode r"><span id="cb7-1"><a href="#cb7-1" aria-hidden="true" tabindex="-1"></a><span class="fu">ggplot</span>(cappun_data, <span class="fu">aes</span>(<span class="at">x =</span> age, <span class="at">fill =</span> cappun)) <span class="sc">+</span></span>
+<span id="cb7-2"><a href="#cb7-2" aria-hidden="true" tabindex="-1"></a>  <span class="fu">geom_density</span>(<span class="at">alpha =</span> <span class="fl">0.5</span>) <span class="sc">+</span></span>
+<span id="cb7-3"><a href="#cb7-3" aria-hidden="true" tabindex="-1"></a>  <span class="fu">labs</span>(</span>
+<span id="cb7-4"><a href="#cb7-4" aria-hidden="true" tabindex="-1"></a>    <span class="at">title =</span> <span class="st">"Age Density by Capital Punishment Opinion"</span>,</span>
+<span id="cb7-5"><a href="#cb7-5" aria-hidden="true" tabindex="-1"></a>    <span class="at">x =</span> <span class="st">"Age"</span>,</span>
+<span id="cb7-6"><a href="#cb7-6" aria-hidden="true" tabindex="-1"></a>    <span class="at">y =</span> <span class="st">"Density"</span>,</span>
+<span id="cb7-7"><a href="#cb7-7" aria-hidden="true" tabindex="-1"></a>    <span class="at">fill =</span> <span class="st">"Opinion"</span></span>
+<span id="cb7-8"><a href="#cb7-8" aria-hidden="true" tabindex="-1"></a>  ) <span class="sc">+</span></span>
+<span id="cb7-9"><a href="#cb7-9" aria-hidden="true" tabindex="-1"></a>  <span class="fu">theme_minimal</span>()</span></code><button title="Copy to Clipboard" class="code-copy-button"><i class="bi"></i></button></pre></div>
+</details>
+<div class="cell-output-display">
+<div>
+<figure class="figure">
+<p><img src="results_files/figure-html/unnamed-chunk-4-2.png" class="img-fluid figure-img" width="672"></p>
+</figure>
+</div>
+</div>
+<details class="code-fold">
+<summary>Code</summary>
+<div class="sourceCode cell-code" id="cb8"><pre class="sourceCode r code-with-copy"><code class="sourceCode r"><span id="cb8-1"><a href="#cb8-1" aria-hidden="true" tabindex="-1"></a><span class="fu">ggplot</span>(cappun_data, <span class="fu">aes</span>(<span class="at">x =</span> cappun, <span class="at">y =</span> age, <span class="at">fill =</span> cappun)) <span class="sc">+</span></span>
+<span id="cb8-2"><a href="#cb8-2" aria-hidden="true" tabindex="-1"></a>  <span class="fu">geom_violin</span>(<span class="at">trim =</span> <span class="cn">FALSE</span>) <span class="sc">+</span></span>
+<span id="cb8-3"><a href="#cb8-3" aria-hidden="true" tabindex="-1"></a>  <span class="fu">geom_boxplot</span>(<span class="at">width =</span> <span class="fl">0.2</span>, <span class="at">position =</span> <span class="fu">position_dodge</span>(<span class="fl">0.9</span>), <span class="at">alpha =</span> <span class="fl">0.7</span>) <span class="sc">+</span></span>
+<span id="cb8-4"><a href="#cb8-4" aria-hidden="true" tabindex="-1"></a>  <span class="fu">labs</span>(</span>
+<span id="cb8-5"><a href="#cb8-5" aria-hidden="true" tabindex="-1"></a>    <span class="at">title =</span> <span class="st">"Age Distribution by Capital Punishment Opinion"</span>,</span>
+<span id="cb8-6"><a href="#cb8-6" aria-hidden="true" tabindex="-1"></a>    <span class="at">x =</span> <span class="st">"Opinion"</span>,</span>
+<span id="cb8-7"><a href="#cb8-7" aria-hidden="true" tabindex="-1"></a>    <span class="at">y =</span> <span class="st">"Age"</span></span>
+<span id="cb8-8"><a href="#cb8-8" aria-hidden="true" tabindex="-1"></a>  ) <span class="sc">+</span></span>
+<span id="cb8-9"><a href="#cb8-9" aria-hidden="true" tabindex="-1"></a>  <span class="fu">theme_minimal</span>()</span></code><button title="Copy to Clipboard" class="code-copy-button"><i class="bi"></i></button></pre></div>
+</details>
+<div class="cell-output-display">
+<div>
+<figure class="figure">
+<p><img src="results_files/figure-html/unnamed-chunk-4-3.png" class="img-fluid figure-img" width="672"></p>
+</figure>
+</div>
+</div>
+</div>
+</section>
+<section id="have-peoples-opinions-on-capital-punishment-changed-over-the-past-50-years-how-so" class="level3" data-number="3.3.3">
+<h3 data-number="3.3.3" class="anchored" data-anchor-id="have-peoples-opinions-on-capital-punishment-changed-over-the-past-50-years-how-so"><span class="header-section-number">3.3.3</span> Have peoples’ opinions on capital punishment changed over the past 50 years? How so?</h3>
 
 
 </section>
